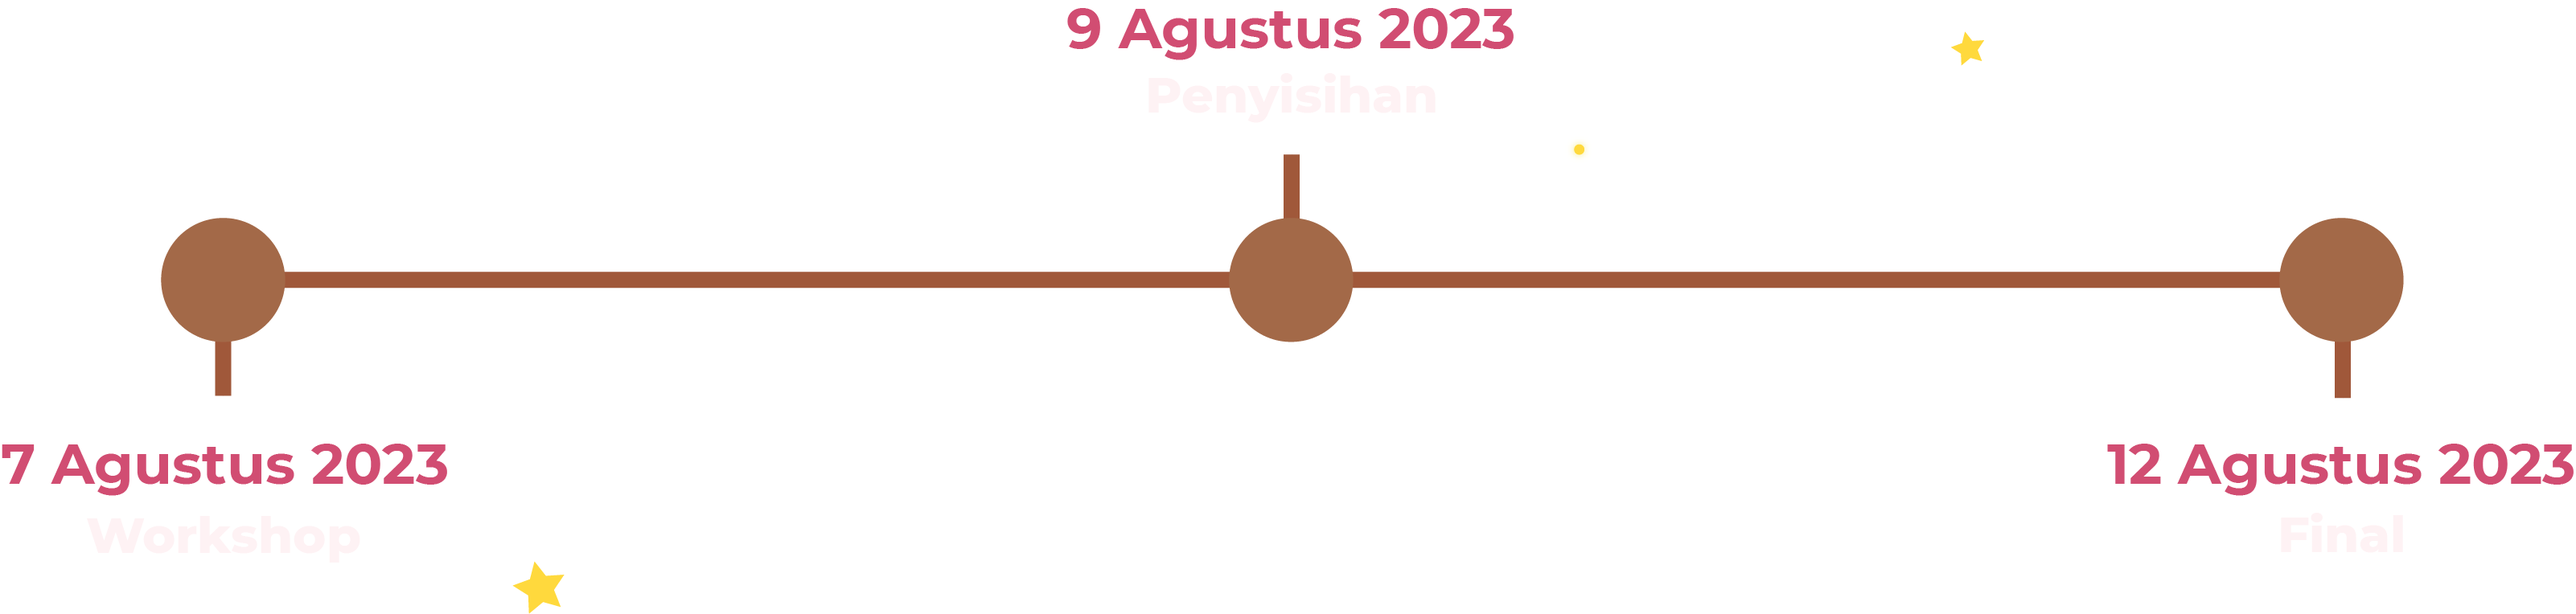
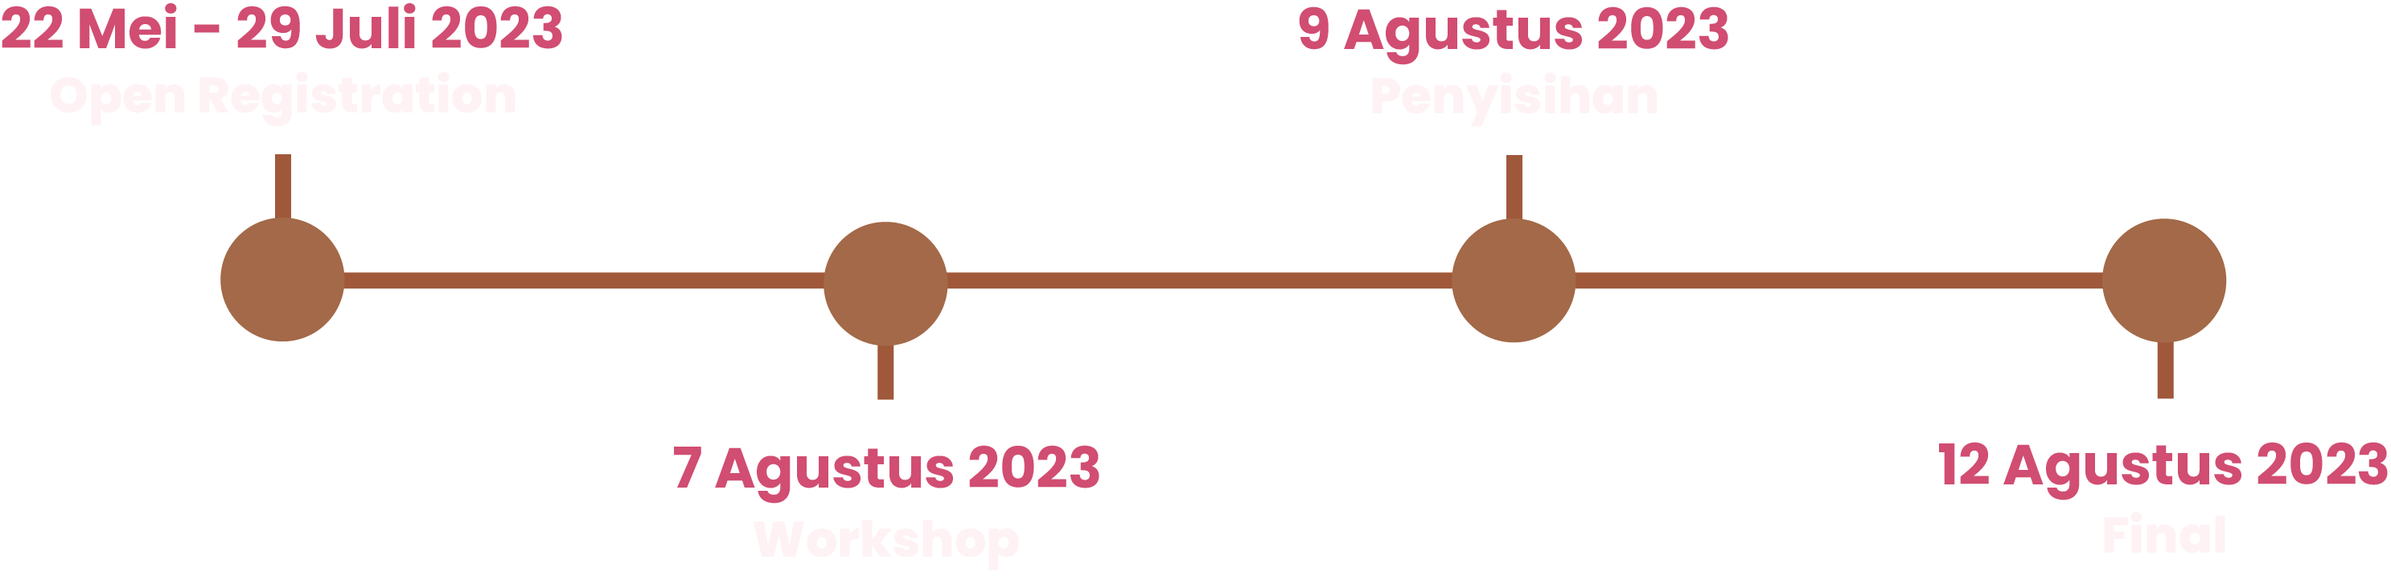
Fix timeline

diff --git a/resources/views/home.blade.php b/resources/views/home.blade.php
@@ -73,6 +73,17 @@
                                 </div>
                                 <div style="display: flex; flex-direction:column;">
                                     <div class="timeline-info">                         
+                                        <small>22 Mei - 29 Juli 2023</small>
+                                        <h4><span>Open Registration</span></h4>
+                                    </div>
+                                </div>
+                            </div>
+                            <div class="timeline-wrapper">
+                                <div class="timeline-yr">
+                                    <span></span>
+                                </div>
+                                <div style="display: flex; flex-direction:column;">
+                                    <div class="timeline-info">                         
                                         <small>7 Agustus 2023</small>
                                         <h4><span>Workshop</span></h4>
                                     </div>
